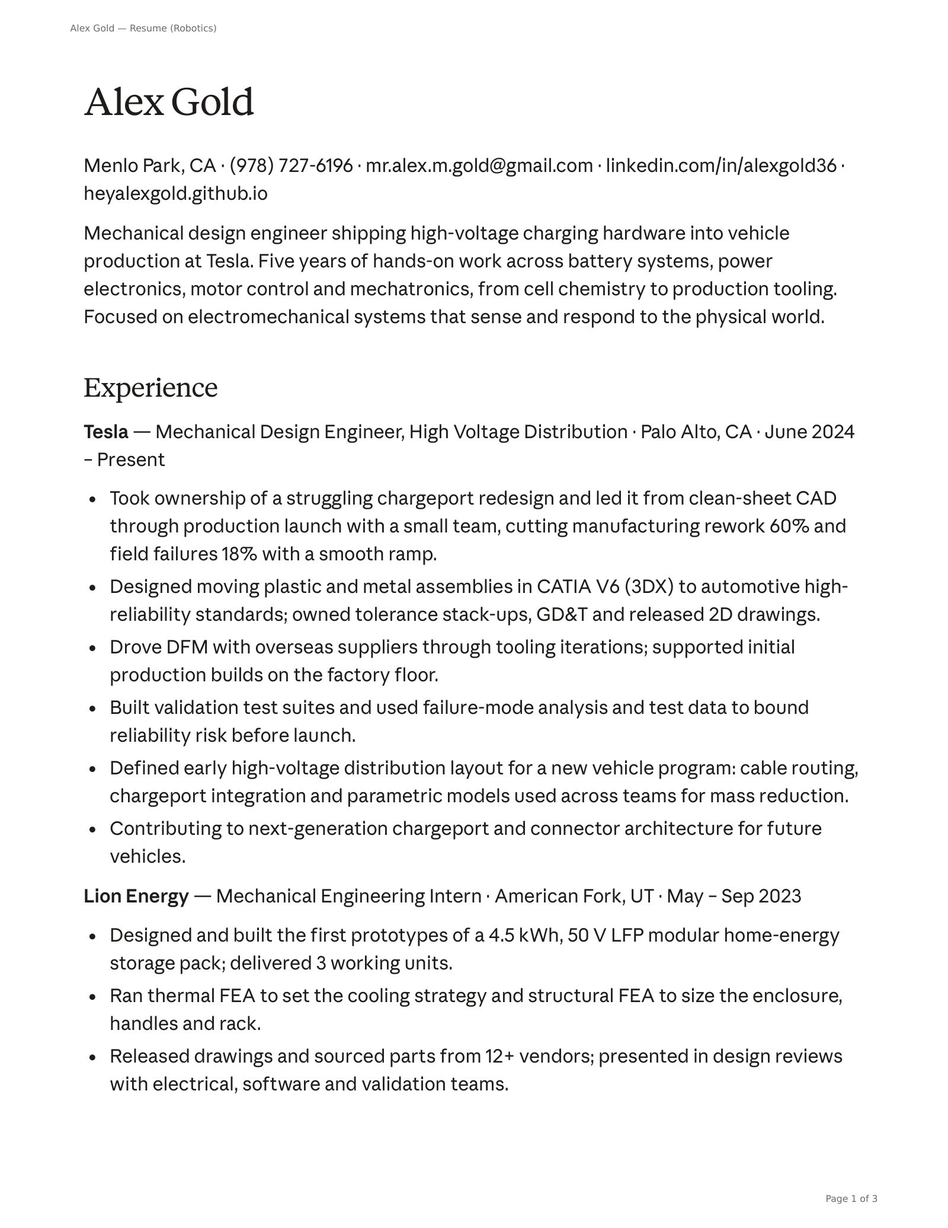
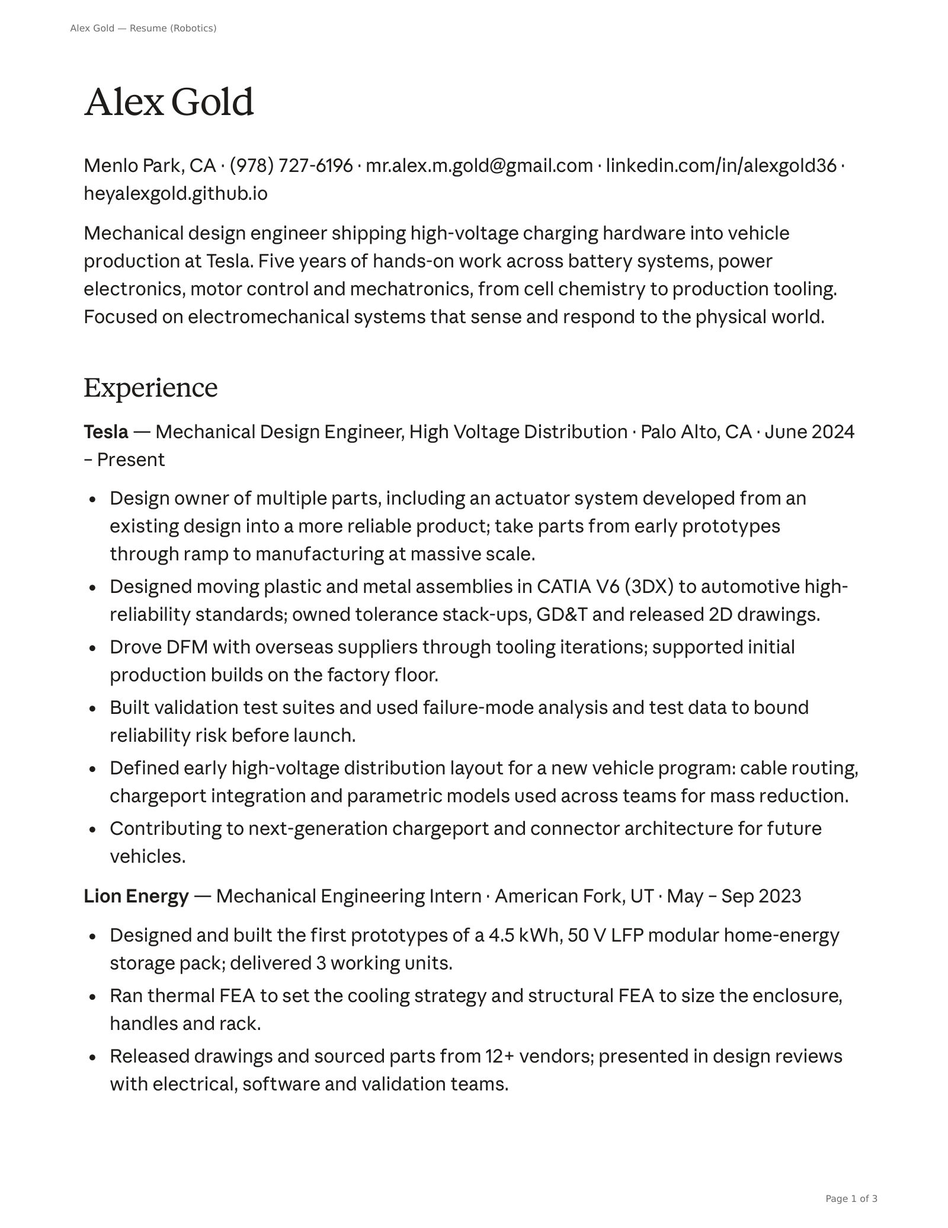
Menu reorder, new notes text, contact block, resume bullet; drop "in the news"
- Removed the "in the news" page (menu item, page, static content). The photo
  file stays in images/ so it is easy to bring back.
- Menu order is now: home, tesla, haptic audio controller, fsae formula e,
  currently working on, creative work, resume/contact me. Haptic moved out of
  the "currently working on" popout, which is now: Strava ghost runners,
  thermal printer camera, bike chain cleaner (title + "content incoming..."
  for now). Page addresses added for it (#bike-chain-cleaner).
- Site text re-imported from the Obsidian notes: about (with links to the
  Tesla, FSAE and turntable pages), Tesla, FSAE (450v, link on Landon),
  haptic audio controller (new architecture write-up with nested firmware
  list), beauty as data compression (paper and PhenoCam links), and the
  informal resume (adds Lion Energy and the battery research lab; the old
  opening sentence is gone from the note, so it is gone here). New contact
  block on the resume page with LinkedIn and email links.
- Inline links get a subtle underline-on-hover style; external links open in
  a new tab.
- Resume PDF: first Tesla bullet rewritten to match the Tesla page (actuator
  ownership, prototype-to-ramp at scale), with no charge port or figures.
  Edited in place in the PDF's own font so layout and text order are
  unchanged; page images re-rendered.

Verified: block-by-block comparison against the previous build showed only
the intended changes; 12-page audit clean (no overflow or collisions);
[…]

Changed region(s): [[0.125, 0.4017, 0.9062, 0.4635]]

diff --git a/index.html b/index.html
@@ -110,6 +110,8 @@
     .block > .content.bare img { display: block; width: 100%; height: 100%; object-fit: cover; }
 
     .block a, .block .accent { color: var(--red); text-decoration: none; }
+    .block p a, .block li a { border-bottom: 1px solid rgba(229,57,43,0.4); }
+    .block p a:hover, .block li a:hover { border-bottom-color: var(--red); }
 
     /* the static content layer (<main id="content">): what link previews, search engines and
        non-JavaScript readers get. With JavaScript it is replaced by the blocks. */
@@ -183,6 +185,9 @@
     .block ul { margin: 0.4em 0 0 1.15em; padding: 0; }
     .block li { margin-bottom: 0.3em; }
     .block ul.long li { margin-bottom: 0.8em; }
+    .block ul ul { margin-top: 0.5em; }
+    .block ul ul li { margin-bottom: 0.5em; }
+    .block li > p { margin-top: 0.5em; }
     /* figure: a photo inset in a white block (like a print in a mat), with a caption line */
     .block.figure > .content { padding: 12px; }
     .block.figure img { display: block; width: 100%; object-fit: cover; }
@@ -500,16 +505,16 @@
     <ul>
       <li><a href="#home">Home</a></li>
       <li><a href="#tesla">Tesla</a></li>
-      <li><a href="#fsae">FSAE Formula E</a></li>
-      <li><a href="#news">In the news</a></li>
-      <li><a href="#resume">Resume / contact</a></li>
       <li><a href="#turntable">Haptic audio controller</a></li>
+      <li><a href="#fsae">FSAE Formula E</a></li>
       <li><a href="#ghost-run">Strava ghost run</a></li>
       <li><a href="#thermal-camera">Thermal printer camera</a></li>
+      <li><a href="#bike-chain-cleaner">Bike chain cleaner</a></li>
       <li><a href="#beauty-as-data-compression">Beauty as data compression</a></li>
       <li><a href="#film">Film</a></li>
       <li><a href="#on-trash">On trash</a></li>
       <li><a href="#this-website">This website</a></li>
+      <li><a href="#resume">Resume / contact</a></li>
     </ul>
   </nav>
 
@@ -518,14 +523,14 @@
     <div class="blk">
       <p>Hey, I'm Alex Gold.</p>
       <p>I'm an engineer who loves to spin CAD, despises CTE mismatches, and doesn't mind frying a resistor.</p>
-      <p>I currently work at Tesla in Palo Alto, California as a mechanical design engineer on the high voltage distribution team, working on high volume part design and actuators. I studied mechanical engineering at BYU with a focus on high voltage electronics, mechatronics, and battery chemistry. I'm passionate about interdisciplinary engineering and mechatronic systems. Above all else I just want to build, build, build!</p>
+      <p>I currently work at <a href="#tesla">Tesla</a> in Palo Alto, California as a mechanical design engineer on the high voltage distribution team. My focus is designing pieces of the charging system for massive scale and actuator design and integration. I studied mechanical engineering at BYU with a focus on <a href="#fsae">high voltage electronics</a>, mechatronics, and battery chemistry. I'm passionate about interdisciplinary engineering and mechatronic systems, and I'm working on several <a href="#turntable">side projects</a> to apply my interests. Above all else I just want to build, build, build!</p>
     </div>
   </article>
 
   <article id="tesla" data-route="tesla" data-title="Tesla">
     <h2>tesla</h2>
     <div class="blk">
-      <p>I am currently working as a mechanical design engineer on the drive systems team, focusing on high voltage distribution. I am the design owner of multiple parts including the next generation charge port for Cybercab and future vehicles.</p>
+      <p>I am currently working as a mechanical design engineer on the drive systems team, focusing on high voltage distribution. I am the design owner of multiple parts on the vehicle side charging system for Cybercab and future vehicles.</p>
       <p>I work on developing new vehicle programs, from high level planning and integration with large groups, to detailed, innovative part design, to ramping and manufacturing at a massive scale.</p>
     </div>
     <figure><img src="images/Tesla-Cybercab-2.jpeg" width="2726" height="1342" alt="Tesla Cybercab" loading="lazy"></figure>
@@ -535,11 +540,11 @@
       <p>I have designed and soldered custom electronics to test actuators, have spent hours analyzing oscilloscope traces, and many more hours decoding CAN signals to characterize field failures.</p>
       <p>The work is ongoing as I investigate new designs and actuator types to increase reliability, decrease cost, and improve performance.</p>
       <h3>Ramping to massive scale</h3>
-      <p>My parts do not die as ideas and prototypes, they are actively scaling.</p>
-      <p>I have learned that the ramping process is far more intense than the design process. Turns out 0-&gt;1 is a breeze compared to 1-&gt;1,000,000. The manufacturing process magnifies weak points and teases out the 5%, 1%, and 0.1% failures. Identifying them and fixing them early and rapidly is key. An example of this:</p>
+      <p>My parts do not terminate as ideas and prototypes, they are actively scaling.</p>
+      <p>I have learned that the ramping process is far more intense than the design process, it turns out 0-&gt;1 is a breeze compared to 1-&gt;1,000,000. The manufacturing process magnifies weak points and teases out the 5%, 1%, and 0.1% failures. Identifying them and fixing them early and rapidly is so important, and it's something I have learned to do at Tesla. An example of this:</p>
       <p>During ramp, the factory flagged a design problem with a part that caused a vehicle EOL issue. I dropped everything and spent the next few days designing a tester to screen out affected parts. A teammate flew a prototype to the factory and got feedback, and I hand soldered a production-worthy version which I flew to our upstream assembler and then trained line workers to use it. This contained the issue and allowed me to validate a robust design change which would get rid of the problem completely.</p>
       <h3>Early design and prototyping</h3>
-      <p>Speed is the name of the game. I have found the sooner you can have a working model running representative firmware, the closer you are to rev 2. I 3D print it, destroy it, modify it, and print it again. I have also learned to be bold with designs.</p>
+      <p>Speed is the name of the game. In my experience, the sooner you can have a working model running representative firmware, the closer you are to rev 2. I 3D print it, destroy it, modify it, and print it again. I have also learned to be bold with designs and trying out new technology when the timeline permits it.</p>
       <h3>Innovative and careful design for manufacturing</h3>
       <p>Anything that can go wrong in production will go wrong. Taking the effort to carefully make an engineering drawing that lists every part requirement and lays out a precise testing strategy at the tier 1 and tier 2+ suppliers is something that pays itself back 50x later in the manufacturing process.</p>
       <h3>Full vehicle development</h3>
@@ -557,7 +562,7 @@
       <h3>Year 1</h3>
       <p>In the first year, me and a group of equally ambitious and unqualified students designed the electric powertrain and built it for a trial chassis. We used a custom designed and built-to-spec pack and an off the shelf inverter and motor. Year 1 was super scrappy, it was nowhere close to rules compliant, and we were barely able to get the motor spinning, but it did spin! It was the necessary foundation for the next year and exposed the areas that I needed more knowledge in.</p>
       <h3>Year 2</h3>
-      <p>This is when it got real. Me and a group of 8 other engineers designed and built a custom 400v accumulator (battery pack) from scratch. Me and a friend Landon were the only ones part of the high voltage team in year one.</p>
+      <p>This is when it got real. Me and a group of 8 other engineers designed and built a custom 450v accumulator (battery pack) from scratch. Me and a friend <a href="https://lens-thinkering.github.io" target="_blank" rel="noopener">Landon</a> were the only ones who had been part of the high voltage team in year one.</p>
       <p>The areas I owned were overall pack layout, collector plates with integrated fuses, thermal sensing, and BMS integration. In each of these areas I led design discussions, performed experiments and simulations, made decisions, and documented my work.</p>
     </div>
     <figure><img src="images/fsae-pack.jpg" width="1400" height="1050" alt="The assembled accumulator with its orange high voltage connector" loading="lazy"></figure>
@@ -571,11 +576,6 @@
     <figure data-w="2/3"><img src="images/fsae-modules.jpg" width="1400" height="1355" alt="Assembling battery modules" loading="lazy"><figcaption>I also assembled many, many modules.</figcaption></figure>
   </article>
 
-  <article id="news" data-route="news" data-title="In the news">
-    <h2>in the news</h2>
-    <figure><img src="images/weather_report.JPG" width="1125" height="1627" alt="KSL NewsRadio tweet sharing a photo of a cold air funnel over Lehi, Utah" loading="lazy"></figure>
-  </article>
-
   <article id="resume" data-route="resume" data-title="Resume / contact">
     <h2>resume / contact</h2>
     <div class="blk" data-kind="doc" data-title="Resume" data-pages="images/resume-1.jpg,images/resume-2.jpg,images/resume-3.jpg" data-pdf="files/Alex_Gold_Resume.pdf">
@@ -583,8 +583,12 @@
       <p><a href="files/Alex_Gold_Resume.pdf">Alex Gold — Resume (PDF, 3 pages)</a></p>
     </div>
     <div class="blk">
+      <p>Got criticism of my projects, thoughts on trash, or would like to give me some money? Send me an email.</p>
+      <p>LinkedIn: <a href="https://www.linkedin.com/in/alexgold36" target="_blank" rel="noopener">linkedin.com/in/alexgold36</a><br>
+      Email: <a href="mailto:mr.alex.m.gold@gmail.com">mr.alex.m.gold@gmail.com</a></p>
+    </div>
+    <div class="blk">
       <h3>Informal resume</h3>
-      <p>That the time difference between "knowing absolutely nothing" about something and "knowing enough to be useful" is only a few hard-working weeks.</p>
     </div>
     <div class="blk">
       <h3>Tesla</h3>
@@ -597,7 +601,7 @@
       </ul>
       <p>Key skills:</p>
       <ul>
-        <li>Complex part design using CATIA 3DX and Ansys</li>
+        <li>Complex part design using CATIA 3DX, Ansys</li>
         <li>Hands on experience with almost every manufacturing technique out there</li>
         <li>Data analysis using python, matlab, AI</li>
       </ul>
@@ -616,6 +620,38 @@
         <li>High voltage system design</li>
         <li>Design choice documentation</li>
         <li>DAQ instrumentation for experimental data</li>
+      </ul>
+    </div>
+    <div class="blk">
+      <h3>Lion Energy</h3>
+      <p>The job where I learned:</p>
+      <ul>
+        <li>The mechanical and electrical structure of commercial battery storage systems</li>
+        <li>The process for turning a design into a small batch of prototypes</li>
+        <li>How to work with FW teams</li>
+        <li>How to not get shocked by live packs</li>
+      </ul>
+      <p>Key skills:</p>
+      <ul>
+        <li>Solidworks assembly design and mechanical + thermal FEA tools</li>
+        <li>Prototype manufacturing</li>
+        <li>Teardown and analysis for benchmarking</li>
+      </ul>
+    </div>
+    <div class="blk">
+      <h3>Battery material research lab</h3>
+      <p>The job where I learned:</p>
+      <ul>
+        <li>How to be extremely scrappy</li>
+        <li>That I can throw myself into a new engineering discipline and become useful within a few weeks</li>
+        <li>What the research process looks like</li>
+        <li>Everything I know about battery chemistry</li>
+      </ul>
+      <p>Key skills:</p>
+      <ul>
+        <li>Battery analysis tools like Arbin cyclers</li>
+        <li>Debugging Aliexpress manufacturing equipment</li>
+        <li>Manual machining</li>
       </ul>
     </div>
     <div class="blk">
@@ -639,7 +675,7 @@
       <p>My technical motivations for the project:</p>
       <ul>
         <li>Buttery smooth haptic interfacing</li>
-        <li>Use field controls on a brushless DC motor</li>
+        <li>Use field-oriented control on a brushless DC motor with a magnetic encoder</li>
         <li>Low latency communication and processing (&lt;10ms)</li>
         <li>PCBA design</li>
         <li>Industrial design for the housing</li>
@@ -649,10 +685,17 @@
     <div class="blk">
       <h3>Architecture</h3>
       <ul class="long">
-        <li>Built around an ESP32 — dual cores were a key requirement (core 0 strictly handles motor control and feedback, core 1 handles audio buffer, bluetooth, screen, and user input).</li>
-        <li>Motor is a brushless DC gimbal motor controlled with a simpleFOC chip. This is something I debated for a while, and considered using a small brushed motor with physical gearing and clutch, similar to a real turntable, but I decided on a gimbal motor because of the total integration and small packaging of the motor, magnetic encoder, and mechanical structure. Also I found the simpleFOC chip which unlocked precise control at very low speeds and has an active community which I referenced for the firmware. I've spent a long time tuning the control method and filtering for this to make the feel correct with very low cogging. I found this matters a lot when you tie an audio output to it; high frequency wobble you can't physically feel shows up as noticeable audio distortion in the highs and lows.</li>
-        <li>I want this to be powered by a USB-C connection that can be plugged into a laptop, so the power draw is limited. This governed the max reaction torque of the platter motor, and required me to add a boost converter to bump up the voltage for my motor. During normal operation the closed-loop motor controls run at shockingly low power (&lt;0.1 watts) so system cooling is not a concern.</li>
-        <li>Firmware is based around two main processing systems. I'm a firmware novice so Claude helped implement the code once I had laid out the high level architecture. In one core, audio is pulled in through a bluetooth connection and fed into a ring buffer which overwrites itself every two minutes. The audio is fed out through a DAC to a lined connection, the position and rate of output is set by a pointer which references the motor position and velocity. In another core, the motor is controlled using a closed loop system using field controls that reference the resolver. This system took a lot of refining, it has filtering and the motor goes through a calibration cycle during boot to measure cogging due to the permanent magnets, which it then compensates for. Thanks to the simpleFOC community for that one. I really wanted to do bluetooth in and bluetooth out to airpods, but airpods make this so unfriendly, and it added too much complexity and mostly would have made the latency too high to be usable in a meeting or get a responsive feel at the turntable.</li>
+        <li>Built around an ESP32-S3 chip, quick processing speeds and double cores were a key requirement (core 0 strictly handles motor control and feedback, core 1 handles audio buffer, screen, user input)</li>
+        <li>Motor is a brushless DC gimbal motor driven by a DRV8313 three-phase driver, with field-oriented control running on the ESP32 via the open-source SimpleFOC library and a 12-bit AS5600 magnetic encoder for rotor angle. I spent a long time on motor choice, and considered using a small brushed motor with physical gearing and clutch, similar to a real turntable, but I decided on a gimbal motor because of the total integration and small packaging of the motor, magnetic encoder, and mechanical structure. I also found the SimpleFOC open-source library which unlocked precise control at very low speeds and has an active community which I referenced for the firmware. I've spent a long time tuning the control method and filtering for this to make the feel correct with very low cogging. Tying an audio output to motor velocity makes this matter a lot; high frequency wobble you can't physically feel shows up as noticeable audio distortion in the highs and lows.</li>
+        <li>I want this to be powered by a usb-c connection that can be plugged into a laptop, so the power draw is limited. This governed the max reaction torque of the platter motor, and required me to add a boost converter to bump up the voltage for my motor. During normal operation the closed-loop motor controls run at shockingly low power (&lt;0.1 watts) so system cooling is not a concern.</li>
+        <li>Firmware is based around three main processing systems:
+          <ul>
+            <li>Audio and visuals: In core 0 on the ESP32, audio is pulled in through a bluetooth connection from a coprocessor chip and fed into a ring buffer which overwrites itself every two minutes. The audio is fed out through a DAC to a lined connection, the audio position and rate of output is set by a pointer which references the motor position and velocity.</li>
+            <li>Motor controls: In core 1, the motor is controlled using a closed loop system using simpleFOC library's from which reference the resolver.</li>
+            <li>Bluetooth: The ESP32 only has BLE 5, which is the latest and greatest bluetooth standard, but it is so late and great that it won't connect to your phone :(. This meant I needed a coprocessing chip with an older BT standard that then communicates with the main system over I2C.</li>
+          </ul>
+          <p>I defined the architecture, timing budget and control approach, used Claude Code to write most of the firmware, then debugged and tuned it on hardware. This system took a lot of refining, I added a velocity filter and a calibration cycle that the motor spins through during boot to measure cogging due to the permanent magnets, which it then compensates for. Thanks to the simpleFOC community for that one. I really wanted to do bluetooth in and bluetooth out to airpods, but airpods make this so unfriendly, and it added too much complexity and mostly would have made the latency too high to be usable in a meeting or get a responsive feel at the turntable.</p>
+        </li>
       </ul>
       <p>This project is in process.</p>
     </div>
@@ -678,15 +721,20 @@
     <div class="blk"><p>content incoming…</p></div>
   </article>
 
+  <article id="bike-chain-cleaner" data-route="bike" data-title="Bike chain cleaner">
+    <h2>bike chain cleaner</h2>
+    <div class="blk"><p>content incoming…</p></div>
+  </article>
+
   <article id="beauty-as-data-compression" data-route="vision" data-title="Beauty as data compression">
     <h2>beauty as data compression</h2>
     <div class="blk">
-      <p>I recently read and was deeply influenced by this paper written by a researcher named Jurgen Schmidhuber in 2009. The title is <a href="https://arxiv.org/pdf/0812.4360" target="_blank" rel="noopener">"Driven by Compression Progress: A Simple Principle Explains Essential Aspects of Subjective Beauty, Novelty, Surprise, Interestingness, Attention, Curiosity, Creativity, Art, Science, Music, Jokes"</a>. The paper is worth the read, but in summary, Schmidhuber lays out a general mathematical definition of beauty, defining it as something whose data is able to be compressed in a way where it can be described in much fewer bits. He claims this describes why we find beauty in patterns and symmetrical faces. Interestingness, by this framework, is the derivative of beauty. If something is helping us to understand and describe our inputs and memories, it is interesting until it is no longer useful in improving our compression method.</p>
-      <p>To further understand and apply the idea, I built a single level, linear neural net that processes vision data and gives an output of the perceived beauty and interestingness of each picture, and uses the image to train its internal data compression scheme. For my input vision data, I used the phenocam database, which comes from a collection of thousands of stationary cameras pointing at nature all around the world which capture 16-48 images a day. It's mostly pictures of crops; this data is primarily used to analyze vegetation cycles. Here is an example interface to the neural net and a demonstration of it training itself over time and developing a unique taste for what it finds interesting and beautiful:</p>
+      <p>I recently read and was deeply influenced by this paper written by a researcher named Jurgen Schmidhuber in 2009. The title is <a href="https://arxiv.org/pdf/0812.4360" target="_blank" rel="noopener">"Driven by Compression Progress: A Simple Principle Explains Essential Aspects of Subjective Beauty, Novelty, Surprise, Interestingness, Attention, Curiosity, Creativity, Art, Science, Music, Jokes"</a>. The paper is worth the read, but in summary, Schmidhuber lays out a general mathematical definition of subjective beauty and interestingness, defining the beauty of a set of data as the quality of being compressible in a way where it can be described in much fewer bits. This suggests why we find beauty in patterns and symmetrical faces. Interestingness, by this framework, is the derivative of beauty. If new data is helping us to understand, describe, and compress our current inputs as well as our recorded memories, and therefore find them more beautiful, it is interesting until it is no longer useful in improving our compression method.</p>
+      <p>To further understand and apply the idea, I built a single-level, linear autoencoder that processes vision data and gives an output of the perceived beauty and interestingness of each picture, and uses the image to train its internal data compression scheme. It is self motivated to maximize interestingness and data compression progress. For my input vision data, I used images from the <a href="https://phenocam.nau.edu/" target="_blank" rel="noopener">Phenocam database</a>, which pulls from thousands of stationary cameras pointing at nature all around the world capturing 16-48 images a day. It’s mostly pictures of crops; this data is primarily used to analyze vegetation cycles. Here is an example interface to the neural net and a demonstration of it training itself over time and developing a unique taste for what it finds interesting and beautiful:</p>
     </div>
     <div class="blk"><p>interactive demo incoming…</p></div>
     <div class="blk">
-      <p>A possible future of this project is to build several solar powered long-lifetime vision/compute units that I can place in a nice spot and they will stay there for 30+ years. They will watch and analyze the world for beauty, selectively looking at what they find interesting, training their unique data compression models. They will be disconnected from any radio frequency antennas so there can not be any output. I think beauty only exists when perceived, so maybe increasing the compute power dedicated to perceiving beauty will increase the amount of beauty in the world.</p>
+      <p>A possible future of this project is to build several solar powered long-lifetime vision/compute units that I can place in a nice spot and they will stay there for 30+ years. They will watch and analyze the world for beauty, selectively looking at what they find interesting, training their unique data compression models. They will be disconnected from their radio frequency antennas so there can not be any output. I think beauty only exists when perceived, so maybe increasing the compute power dedicated to perceiving beauty will increase the amount of beauty in the world.</p>
     </div>
   </article>
 
@@ -1052,8 +1100,8 @@
   // ---------- page routing: the sidebar + title stay, the middle swaps ----------
   // Every page has its own address (#tesla, #turntable, ...). Navigating pushes a history entry, so
   // back/forward work and a pasted link opens straight onto its page.
-  const SLUG = { home: 'home', tesla: 'tesla', fsae: 'fsae', news: 'news', resume: 'resume', haptic: 'turntable',
-    ghostrun: 'ghost-run', thermal: 'thermal-camera', vision: 'beauty-as-data-compression', film: 'film',
+  const SLUG = { home: 'home', tesla: 'tesla', fsae: 'fsae', resume: 'resume', haptic: 'turntable',
+    ghostrun: 'ghost-run', thermal: 'thermal-camera', bike: 'bike-chain-cleaner', vision: 'beauty-as-data-compression', film: 'film',
     trash: 'on-trash', website: 'this-website' };
   const PAGE_OF = { ...Object.fromEntries(Object.keys(SLUG).map(p => [p, p])),
                     ...Object.fromEntries(Object.entries(SLUG).map(([p, s]) => [s, p])) };   // slug or page id -> page id
@@ -1153,29 +1201,29 @@
   // ---- sidebar (constant across pages; locked = click-only) ----
   new Block(SIDEBAR_X,  40, SIDEBAR_W, 24, { cls: 'redcap', locked: true });                  // red cap on top
   const home      = new Block(SIDEBAR_X,  71, SIDEBAR_W, 42, { cls: 'nav', locked: true, html: 'home',                  onClick: () => showPage('home') });
-  const cwo       = new Block(SIDEBAR_X, 120, SIDEBAR_W, 63, { cls: 'nav', locked: true, html: 'currently<br>working on' });
-  const teslaNav  = new Block(SIDEBAR_X, 190, SIDEBAR_W, 42, { cls: 'nav', locked: true, html: 'tesla',                 onClick: () => showPage('tesla') });
+  const teslaNav  = new Block(SIDEBAR_X, 120, SIDEBAR_W, 42, { cls: 'nav', locked: true, html: 'tesla',                 onClick: () => showPage('tesla') });
+  const hapticNav = new Block(SIDEBAR_X, 169, SIDEBAR_W, 63, { cls: 'nav', locked: true, html: 'haptic audio<br>controller', onClick: () => showPage('haptic') });
   const fsaeNav   = new Block(SIDEBAR_X, 239, SIDEBAR_W, 63, { cls: 'nav', locked: true, html: 'fsae<br>formula e',      onClick: () => showPage('fsae') });
-  const newsNav   = new Block(SIDEBAR_X, 309, SIDEBAR_W, 42, { cls: 'nav', locked: true, html: 'in the news?',          onClick: () => showPage('news') });
-  const resumeNav = new Block(SIDEBAR_X, 358, SIDEBAR_W, 63, { cls: 'nav', locked: true, html: 'resume/<br>contact me', onClick: () => showPage('resume') });
-  const creativeNav = new Block(SIDEBAR_X, 428, SIDEBAR_W, 63, { cls: 'nav', locked: true, html: 'creative<br>work' });
+  const cwo       = new Block(SIDEBAR_X, 309, SIDEBAR_W, 63, { cls: 'nav', locked: true, html: 'currently<br>working on' });
+  const creativeNav = new Block(SIDEBAR_X, 379, SIDEBAR_W, 63, { cls: 'nav', locked: true, html: 'creative<br>work' });
+  const resumeNav = new Block(SIDEBAR_X, 449, SIDEBAR_W, 63, { cls: 'nav', locked: true, html: 'resume/<br>contact me', onClick: () => showPage('resume') });
 
   // sub-menu cards under "currently working on" — each opens a project page
   // floating: true — this popout sits in its own plane above the (now closer) body
   // content and never collides with or snaps to it
   const SUB_X = SIDEBAR_X + SIDEBAR_W + GAP;
   const cards = [
-    new Block(SUB_X, 120, 142, 63, { cls: 'sub', locked: true, floating: true, html: 'haptic audio<br>controller', onClick: () => showPage('haptic') }),
-    new Block(SUB_X, 190, 142, 63, { cls: 'sub', locked: true, floating: true, html: 'Strava ghost<br>runners',     onClick: () => showPage('ghostrun') }),
-    new Block(SUB_X, 260, 142, 63, { cls: 'sub', locked: true, floating: true, html: 'thermal printer<br>camera',   onClick: () => showPage('thermal') })
+    new Block(SUB_X, 309, 142, 63, { cls: 'sub', locked: true, floating: true, html: 'Strava ghost<br>runners',     onClick: () => showPage('ghostrun') }),
+    new Block(SUB_X, 379, 142, 63, { cls: 'sub', locked: true, floating: true, html: 'thermal printer<br>camera',   onClick: () => showPage('thermal') }),
+    new Block(SUB_X, 449, 142, 63, { cls: 'sub', locked: true, floating: true, html: 'bike chain<br>cleaner',       onClick: () => showPage('bike') })
   ];
 
   // sub-menu cards under "creative work"
   const creativeCards = [
-    new Block(SUB_X, 428, 142, 63, { cls: 'sub', locked: true, floating: true, html: 'beauty as data<br>compression', onClick: () => showPage('vision') }),
-    new Block(SUB_X, 498, 142, 44, { cls: 'sub', locked: true, floating: true, html: 'film',                        onClick: () => showPage('film') }),
-    new Block(SUB_X, 549, 142, 44, { cls: 'sub', locked: true, floating: true, html: 'on trash',                    onClick: () => showPage('trash') }),
-    new Block(SUB_X, 600, 142, 44, { cls: 'sub', locked: true, floating: true, html: 'this website',                onClick: () => showPage('website') })
+    new Block(SUB_X, 379, 142, 63, { cls: 'sub', locked: true, floating: true, html: 'beauty as data<br>compression', onClick: () => showPage('vision') }),
+    new Block(SUB_X, 449, 142, 44, { cls: 'sub', locked: true, floating: true, html: 'film',                        onClick: () => showPage('film') }),
+    new Block(SUB_X, 500, 142, 44, { cls: 'sub', locked: true, floating: true, html: 'on trash',                    onClick: () => showPage('trash') }),
+    new Block(SUB_X, 551, 142, 44, { cls: 'sub', locked: true, floating: true, html: 'this website',                onClick: () => showPage('website') })
   ];
 
   // "alex gold" — big on home (left of the picture); small top-right on every other page.
@@ -1449,8 +1497,8 @@
 
   // which nav block lights up for each page (project pages ride their parent's popout)
   Object.assign(pageNav, {
-    home, tesla: teslaNav, fsae: fsaeNav, news: newsNav, resume: resumeNav,
-    haptic: cwo, ghostrun: cwo, thermal: cwo,
+    home, tesla: teslaNav, haptic: hapticNav, fsae: fsaeNav, resume: resumeNav,
+    ghostrun: cwo, thermal: cwo, bike: cwo,
     vision: creativeNav, film: creativeNav, trash: creativeNav, website: creativeNav
   });
   activeNav = home;
